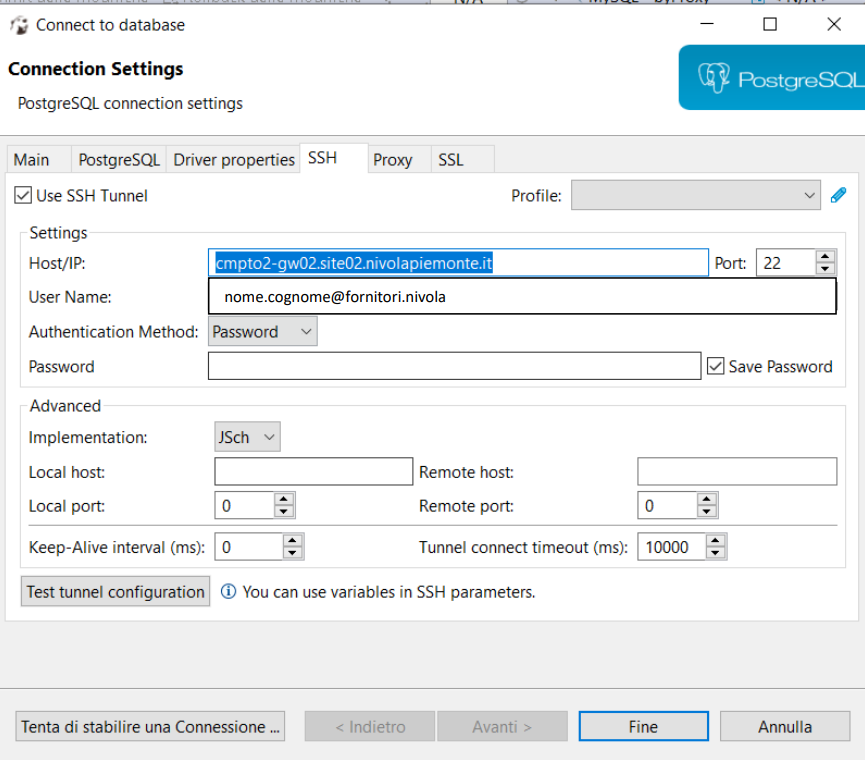
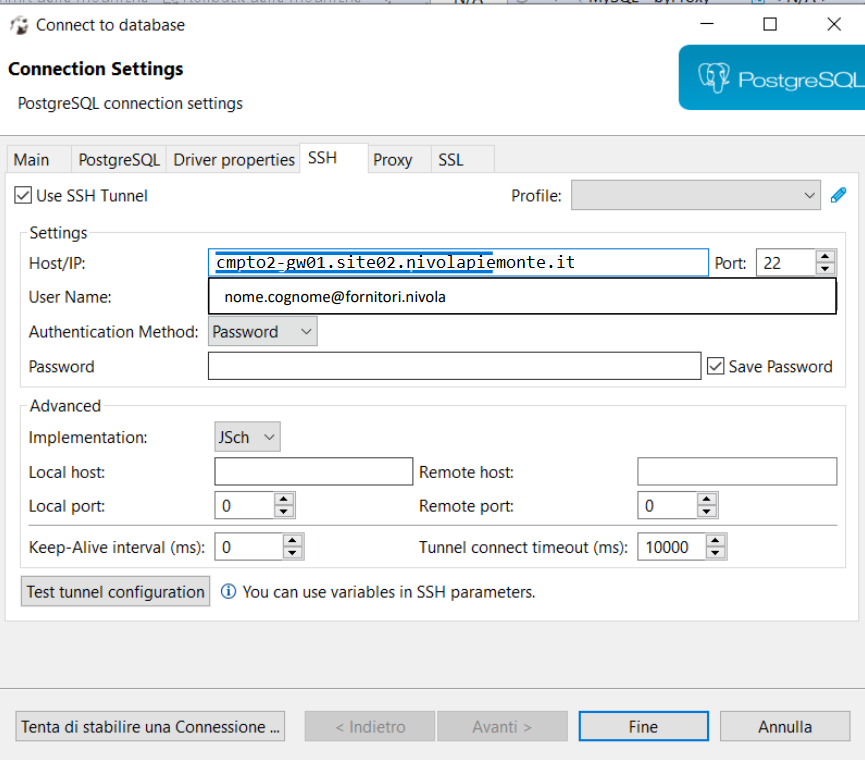
260713commit.1

Changed region(s): [[0.2497, 0.3329, 0.6555, 0.3632]]

diff --git a/docs/Come_fare_per/14.5_Accedere_DBAAS.rst b/docs/Come_fare_per/14.5_Accedere_DBAAS.rst
@@ -15,7 +15,7 @@
 
 |
 
-• Scheda SSH, inserire flag Use SSH Tunnel, nel pannello Host inserire **cmpto2-gw02.site02.nivolapiemonte.it**,su User Name inserire [email redacted] e Password nel relativo campo
+• Scheda SSH, inserire flag Use SSH Tunnel, nel pannello Host inserire **cmpto2-gw01.site02.nivolapiemonte.it** (IP 10.138.154.13), su User Name inserire [email redacted] e Password nel relativo campo
 
   .. image:: img/14.5c.png
 